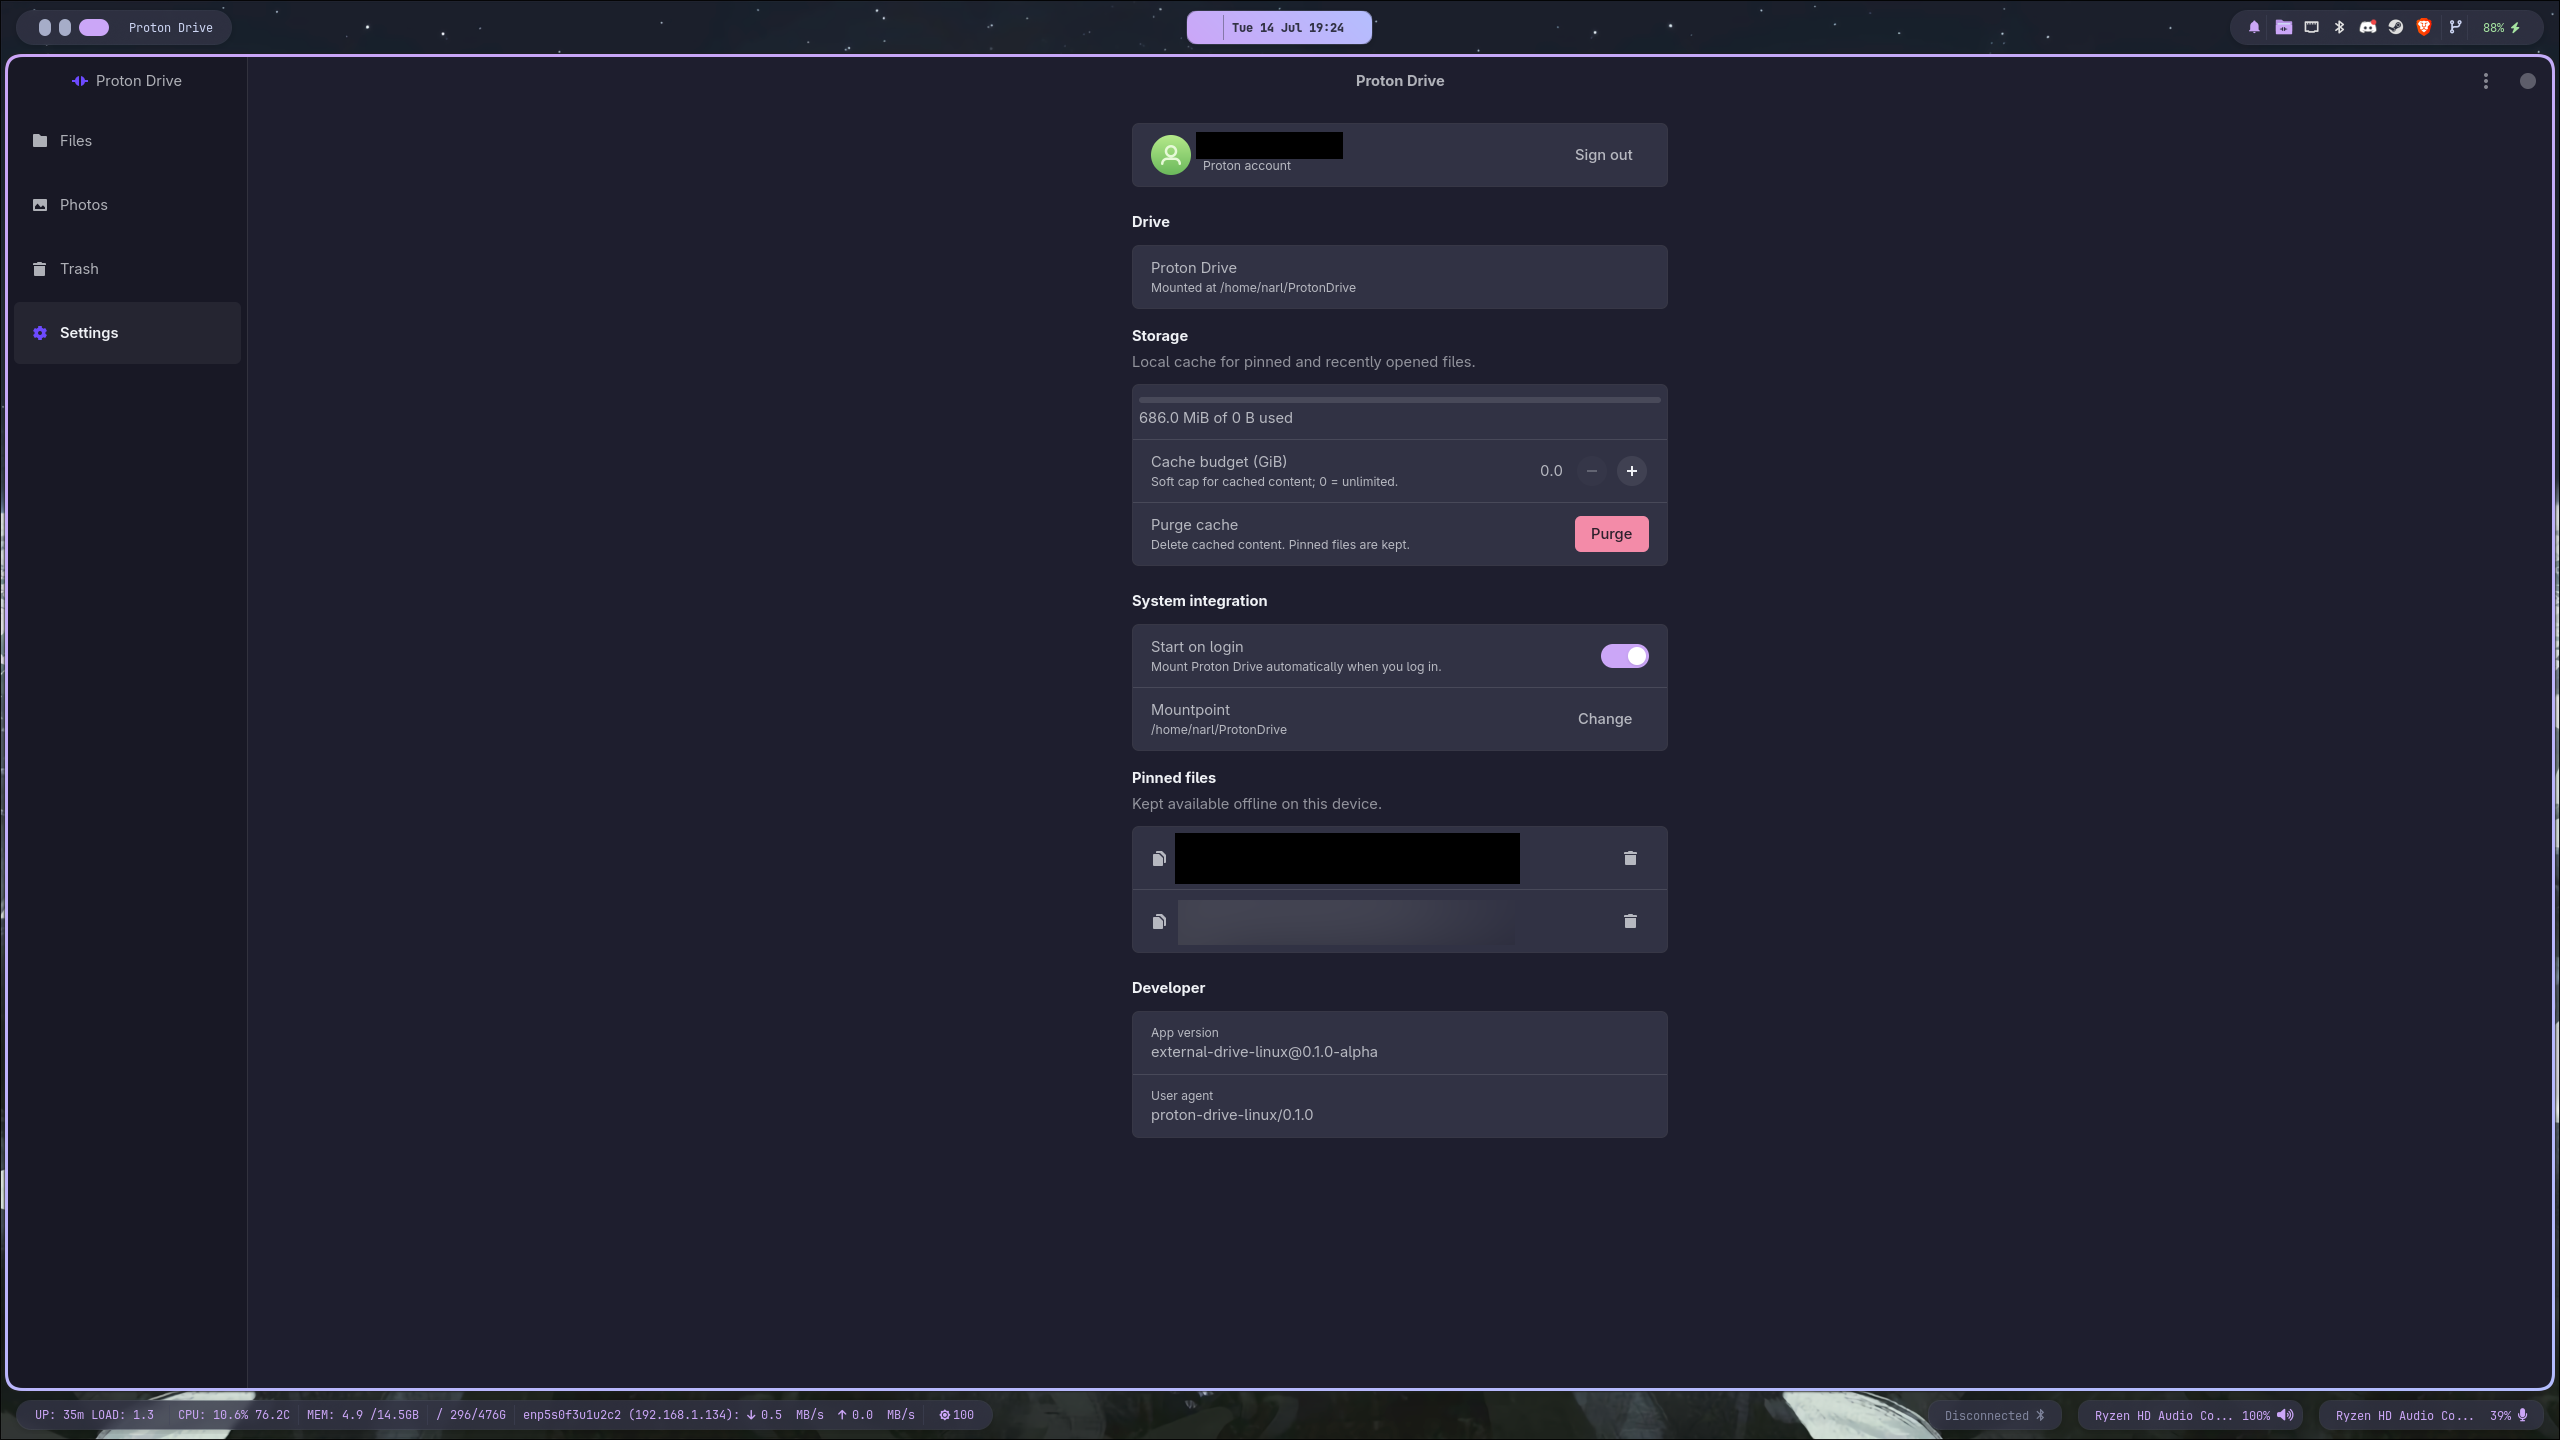
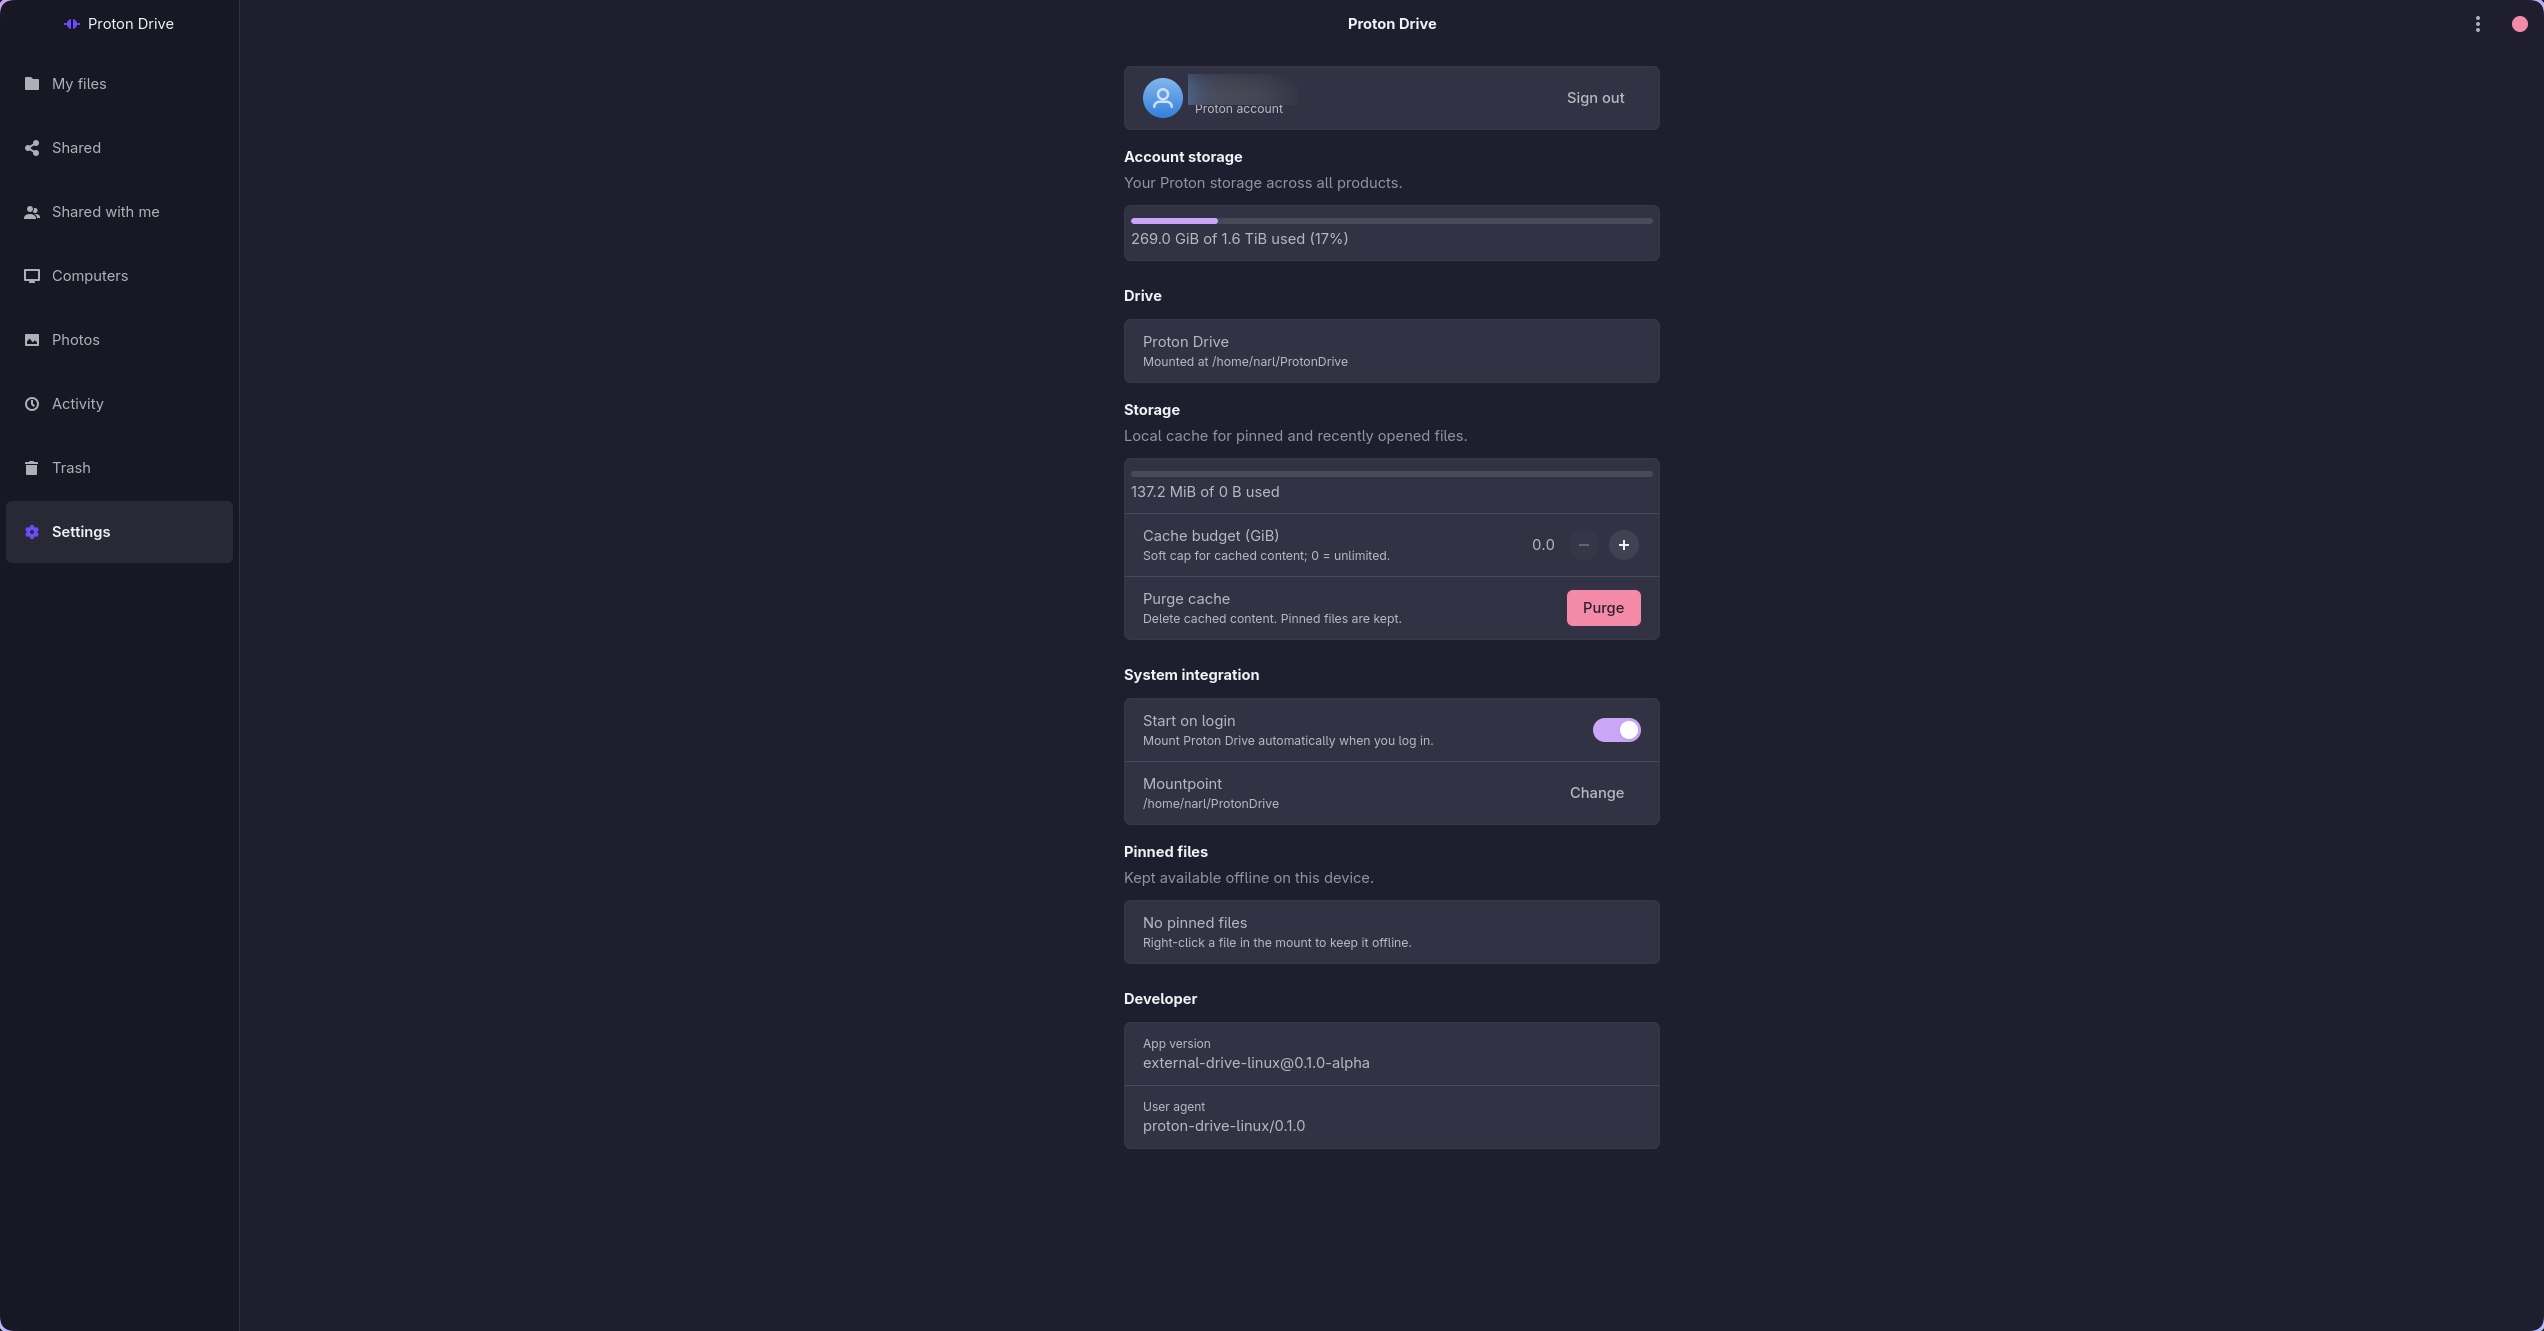
updated readme

diff --git a/README.md b/README.md
@@ -6,7 +6,9 @@ A fast, unofficial Proton Drive client for Linux. This client features an advanc
 
 - **Files-on-Demand (FUSE)**: Mount your Proton Drive as a virtual filesystem where files are downloaded only when opened, utilizing smart block-level caching and disk-backed writes.
 - **Command-Line Interface (CLI)**: Manage your drive, authenticate, and monitor sync status directly from the terminal.
-- **Non-Blocking GTK4 Desktop App**: Browse files, manage pins, and configure options through a modern, native GUI with a fully non-blocking asynchronous main loop.
+- **Non-Blocking GTK4 Desktop App**: Browse files, manage pins, configure options, and monitor active transfers through a modern, native GUI with a fully non-blocking asynchronous main loop.
+- **Shared Links & Invites**: Browse files shared with you by other users, and view/manage your own public shared links directly in the GUI.
+- **Local Backup (Computers)**: Sync and back up local directories (like Downloads, Documents, Pictures, etc.) directly to your Proton Drive account.
 - **System Tray Integration**: Background indicator for status monitoring, quick actions, and fast sync controls.
 - **Fuzzy Search Launcher Prompt (HUD)**: A Google Drive-style search launcher (`pdfs-prompt`) for finding and opening files or folders instantly, ideal for binding to a system-wide hotkey.
 - **Secure Credential Storage**: Integrates with the system Secret Service (GNOME Keyring, KWallet, etc.) with smart in-memory credential caching to avoid UI thread blockages.
@@ -136,11 +138,16 @@ The client includes several optimizations designed for high efficiency, a low me
     <td align="center" width="50%"><img src="images/files.png" alt="Files Browser" width="100%"><br><sub><b>Files Browser</b></sub></td>
   </tr>
   <tr>
-    <td align="center" width="50%"><img src="images/photos.png" alt="Photos Timeline" width="100%"><br><sub><b>Photos Timeline</b></sub></td>
-    <td align="center" width="50%"><img src="images/prompt.png" alt="Search Launcher Prompt" width="100%"><br><sub><b>Search Launcher Prompt</b></sub></td>
+    <td align="center" width="50%"><img src="images/shared.png" alt="Shared Links" width="100%"><br><sub><b>Shared Links</b></sub></td>
+    <td align="center" width="50%"><img src="images/shared_with_me.png" alt="Shared with me" width="100%"><br><sub><b>Shared with me</b></sub></td>
   </tr>
   <tr>
-    <td align="center" colspan="2"><img src="images/settings.png" alt="Settings" width="50%"><br><sub><b>Settings</b></sub></td>
+    <td align="center" width="50%"><img src="images/computers.png" alt="Local Backups (Computers)" width="100%"><br><sub><b>Local Backups (Computers)</b></sub></td>
+    <td align="center" width="50%"><img src="images/photos.png" alt="Photos Timeline" width="100%"><br><sub><b>Photos Timeline</b></sub></td>
+  </tr>
+  <tr>
+    <td align="center" width="50%"><img src="images/prompt.png" alt="Search Launcher Prompt" width="100%"><br><sub><b>Search Launcher Prompt</b></sub></td>
+    <td align="center" width="50%"><img src="images/settings.png" alt="Settings" width="100%"><br><sub><b>Settings</b></sub></td>
   </tr>
 </table>
 

diff --git a/docs/ARCHITECTURE.md b/docs/ARCHITECTURE.md
@@ -33,7 +33,7 @@ graph TD
 | [`pdfs-core`](file:///home/narl/dev/private/proton-drive-linux/crates/pdfs-core) | Core Infrastructure & Services | Cache Bookkeeping, Database migrations/schemas, IPC protocol payloads. | Holds the unified SQLite DB (`Db`) connection and the on-disk cache metadata (`ContentCache`). |
 | [`pdfs-fuse`](file:///home/narl/dev/private/proton-drive-linux/crates/pdfs-fuse) | VFS Layer & Reconciliation | FUSE callbacks, background upload queue (`drain`), two-way sync runner. | Manages in-memory inode maps (`State`), active descriptors (`WriteHandle`), and background task threads. |
 | [`pdfs-cli`](file:///home/narl/dev/private/proton-drive-linux/crates/pdfs-cli) | Command Line Interface | Command routing, daemon launcher, IPC client wrapper. | Stateless; communicates with daemon over IPC control socket. |
-| [`pdfs-gui`](file:///home/narl/dev/private/proton-drive-linux/crates/pdfs-gui) | Graphical Interface | GTK Page timelines (Files, Photos, Shares, Status). | Stateless; polls daemon for status and lists timelines via IPC socket. |
+| [`pdfs-gui`](file:///home/narl/dev/private/proton-drive-linux/crates/pdfs-gui) | Graphical Interface | GTK Page timelines (My files, Shared, Shared with me, Computers, Photos, Activity, Trash, Settings). | Stateless; polls daemon for status and lists timelines via IPC socket. |
 
 ---
 